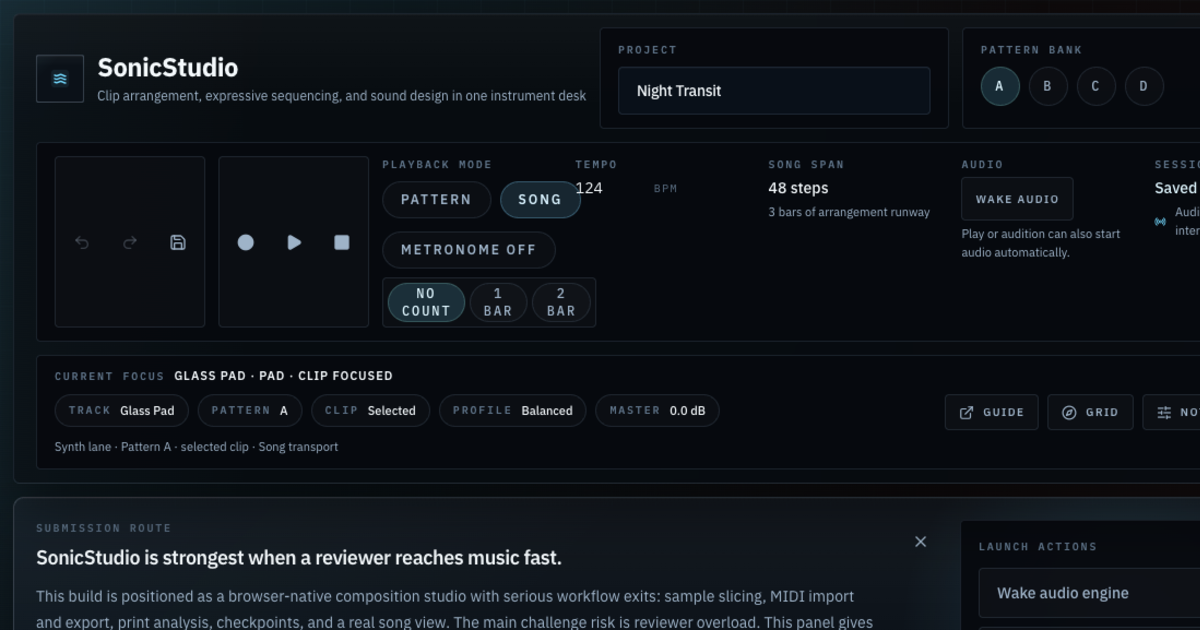
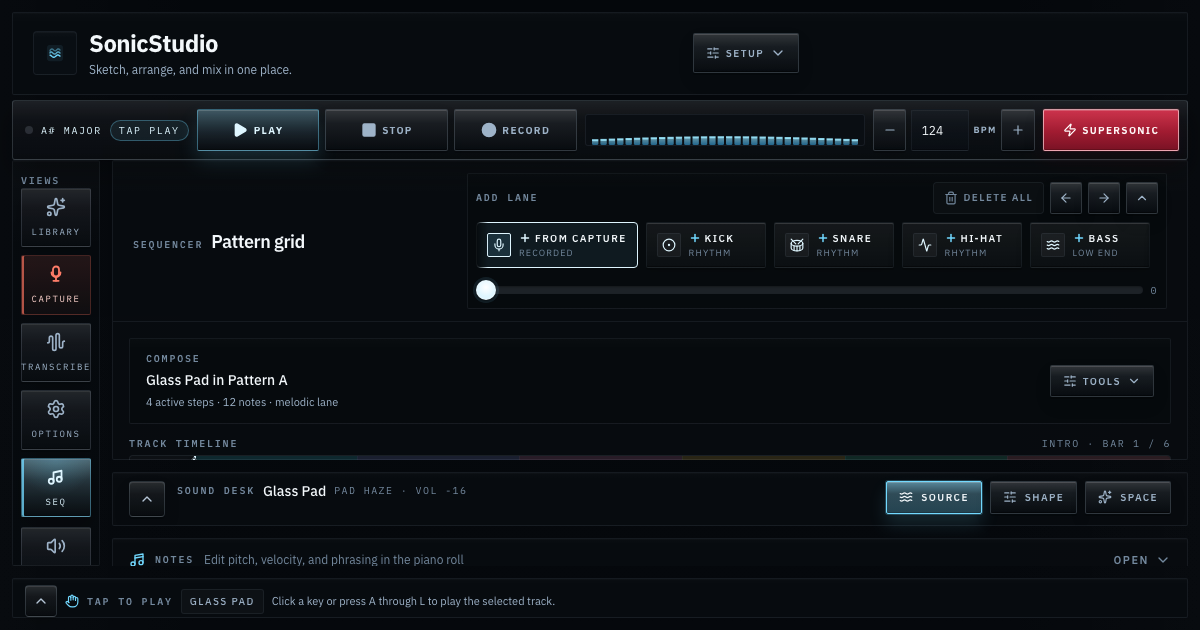
Refresh the README/OG images from the live app, and make that reproducible
The hero and Open Graph images were captured back in May, before the SEQ-first
redesign — they showed an old settings-overview screen that no longer exists, so
the first thing a repo visitor or a shared link previewed was a studio that
doesn't match the real one. The README also still listed the audio-context split
as a pending target even though it shipped, and didn't mention ESLint or the
newer test surfaces.

- Regenerated public/share/sonicstudio-hero.png and -thumbnail.png from the
  running app (the workspace with the live transport spectrum; the starter
  library), both at the original 1200x630.
- Added scripts/capture-hero.mjs + an npm run capture:hero script (Playwright,
  dev-only) so the visuals are reproducible and can't silently rot again, with
  a Screenshots section in the README explaining how to run it.
- Brought the README current: the actions-context split is described as done
  with per-slice subscription noted as the next lever; the capability list adds
  the live spectrum, daily featured rotation, and compressed share links; the
  verification section spells out that lint runs tsc + ESLint and lists the
  registry, component, and codec tests.

Verified the regenerated images render the current app (hero shows the SEQ
workspace and spectrum; thumbnail shows the launchpad). Lint, 444 tests, and the
build pass.

diff --git a/README.md b/README.md
@@ -20,12 +20,12 @@ The current build supports an actual writing flow:
 ## Current capabilities
 
 1. A step sequencer with inline piano-roll, arrangement, and timeline panels, plus a mixer and a sound desk, all tied to one serializable project state
-2. Synth lanes and sample lanes with slice-aware triggering
+2. Synth lanes and sample lanes with slice-aware triggering, and a live spectrum in the transport
 3. Song markers, loop ranges, clip editing, pattern transforms, and section duplication
 4. MIDI import and scoped MIDI export
 5. WAV bounce with scope selection, print targets, analysis, and bounce history
 6. Master presets, master snapshots, track sound recall, and recovery checkpoints
-7. Starter scenes for quick starts and first use
+7. A genre-spanning starter library with a featured scene that rotates daily, plus compressed share links that reopen a session in one click
 
 ## Current architecture
 
@@ -64,10 +64,13 @@ restore and checkpoints, render and export scope, and route-driven entry. The
 per-keystroke corpus summary has also been moved off the edit hot path — it
 recomputes after edits settle rather than on every toggle.
 
-The remaining targets are smaller and more contained:
+The provider's stable callbacks now live in their own actions context
+(`useAudioActions`), so a component that only dispatches no longer re-renders
+when tracks, selection, or the playhead change; the per-step playhead has its own
+context as well. The remaining targets are smaller and more contained:
 
 1. device-rack source ownership is still concentrated in the slice and source-window authoring path
-2. the audio context value is one large object, so an edit re-renders every consumer; splitting the frequently-changing editor state from the stable callbacks would cut render churn on large projects
+2. heavy views still read editor state through one shared context, so narrowing those reads to per-slice subscriptions is the next render-churn lever if large projects ever need it
 
 ## Quick start
 
@@ -101,6 +104,17 @@ For GitHub Pages under `/SonicStudio/`, use:
 npm run build:pages
 ```
 
+## Screenshots
+
+The README and Open Graph images (`public/share/`) are captured from the running
+app, so they stay honest after UI changes. With a dev server up, regenerate them:
+
+```bash
+npm run dev                  # serves the studio
+npx playwright install chromium   # once
+CAPTURE_URL=http://127.0.0.1:3000 npm run capture:hero
+```
+
 ## Verification
 
 ```bash
@@ -109,7 +123,9 @@ npm test
 npm run build
 ```
 
-Current test coverage includes reducer invariants, arranger selector and interaction logic, clip mutation helpers, note edit hydration, MIDI round trips, transport-controller behavior, render workflow behavior, session workflow behavior, explicit route resolution, and controller-level render and restore seams.
+`npm run lint` runs the TypeScript compiler and ESLint (typescript-eslint plus the React hooks rules); `npm test` runs the Vitest suite; `npm run build` type-checks and produces the production bundle.
+
+Current test coverage includes reducer invariants, arranger selector and interaction logic, clip mutation helpers, note edit hydration, MIDI round trips, transport-controller behavior, render workflow behavior, session workflow behavior, explicit route resolution, controller-level render and restore seams, component render smoke tests, the share-link codec and lazy-load retry, and registry integrity checks that build every starter scene and validate every voice preset.
 
 ## Project direction
 